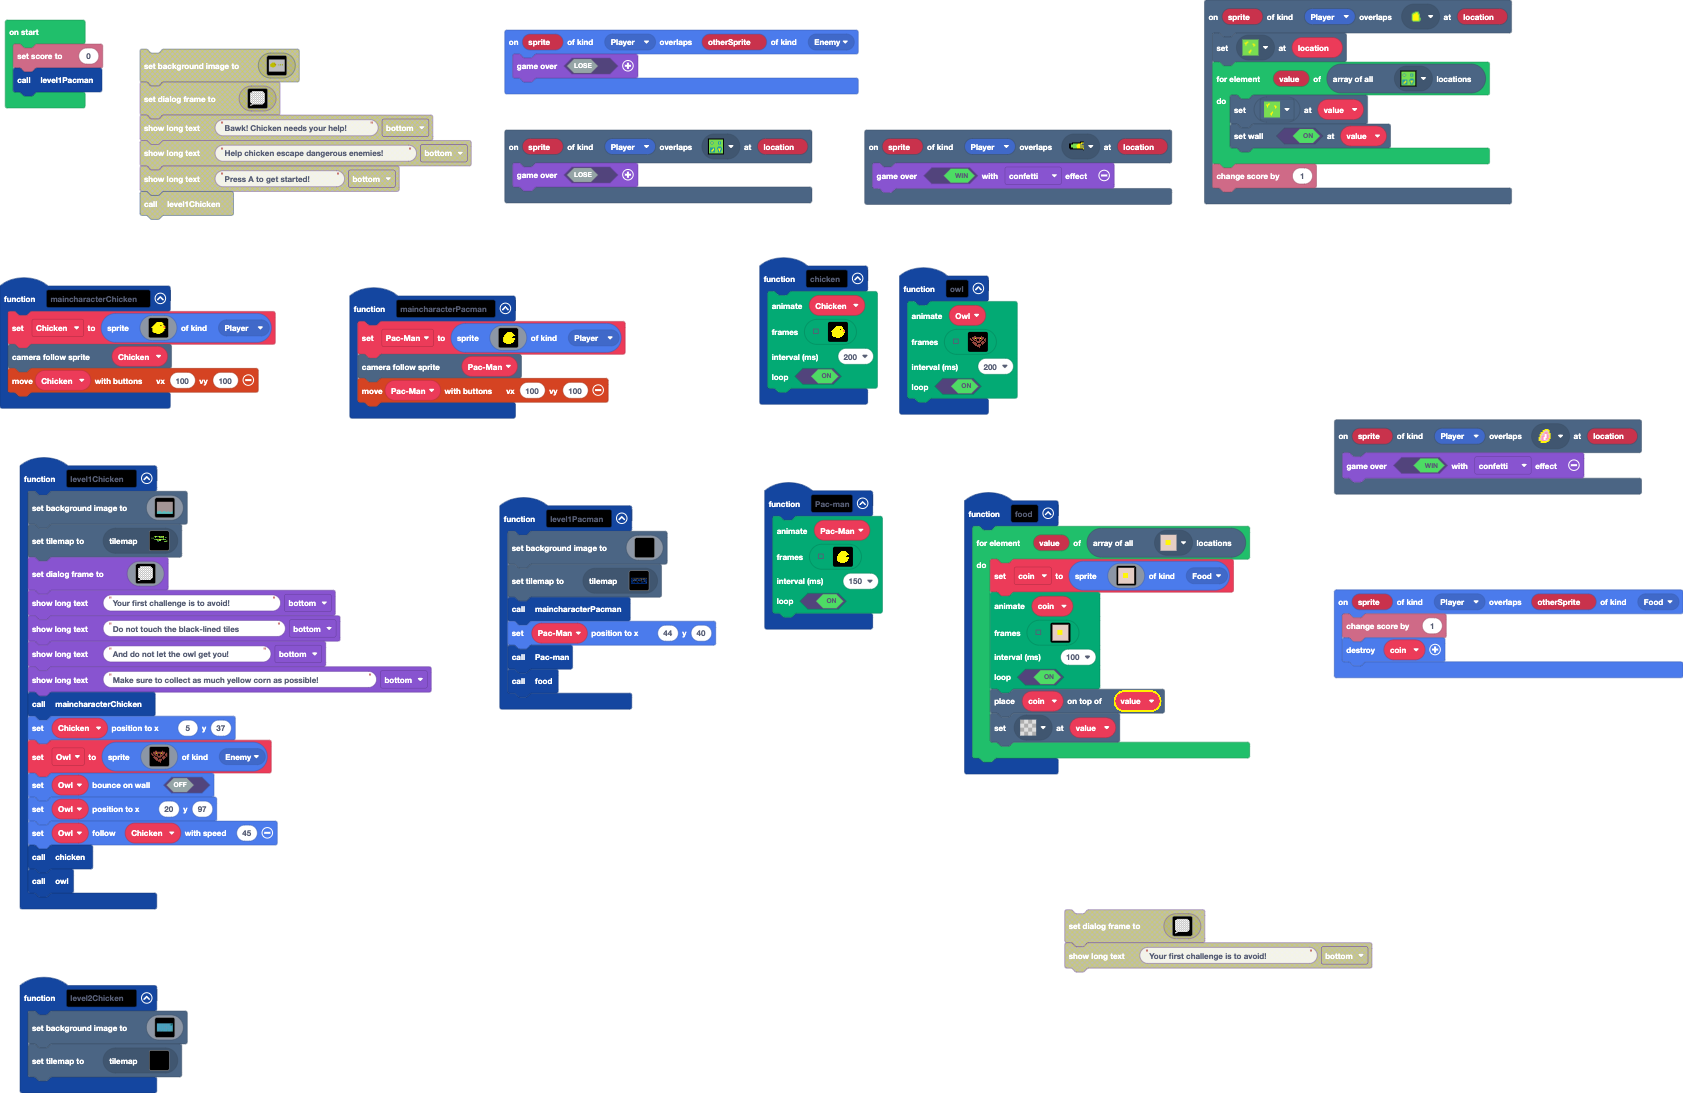
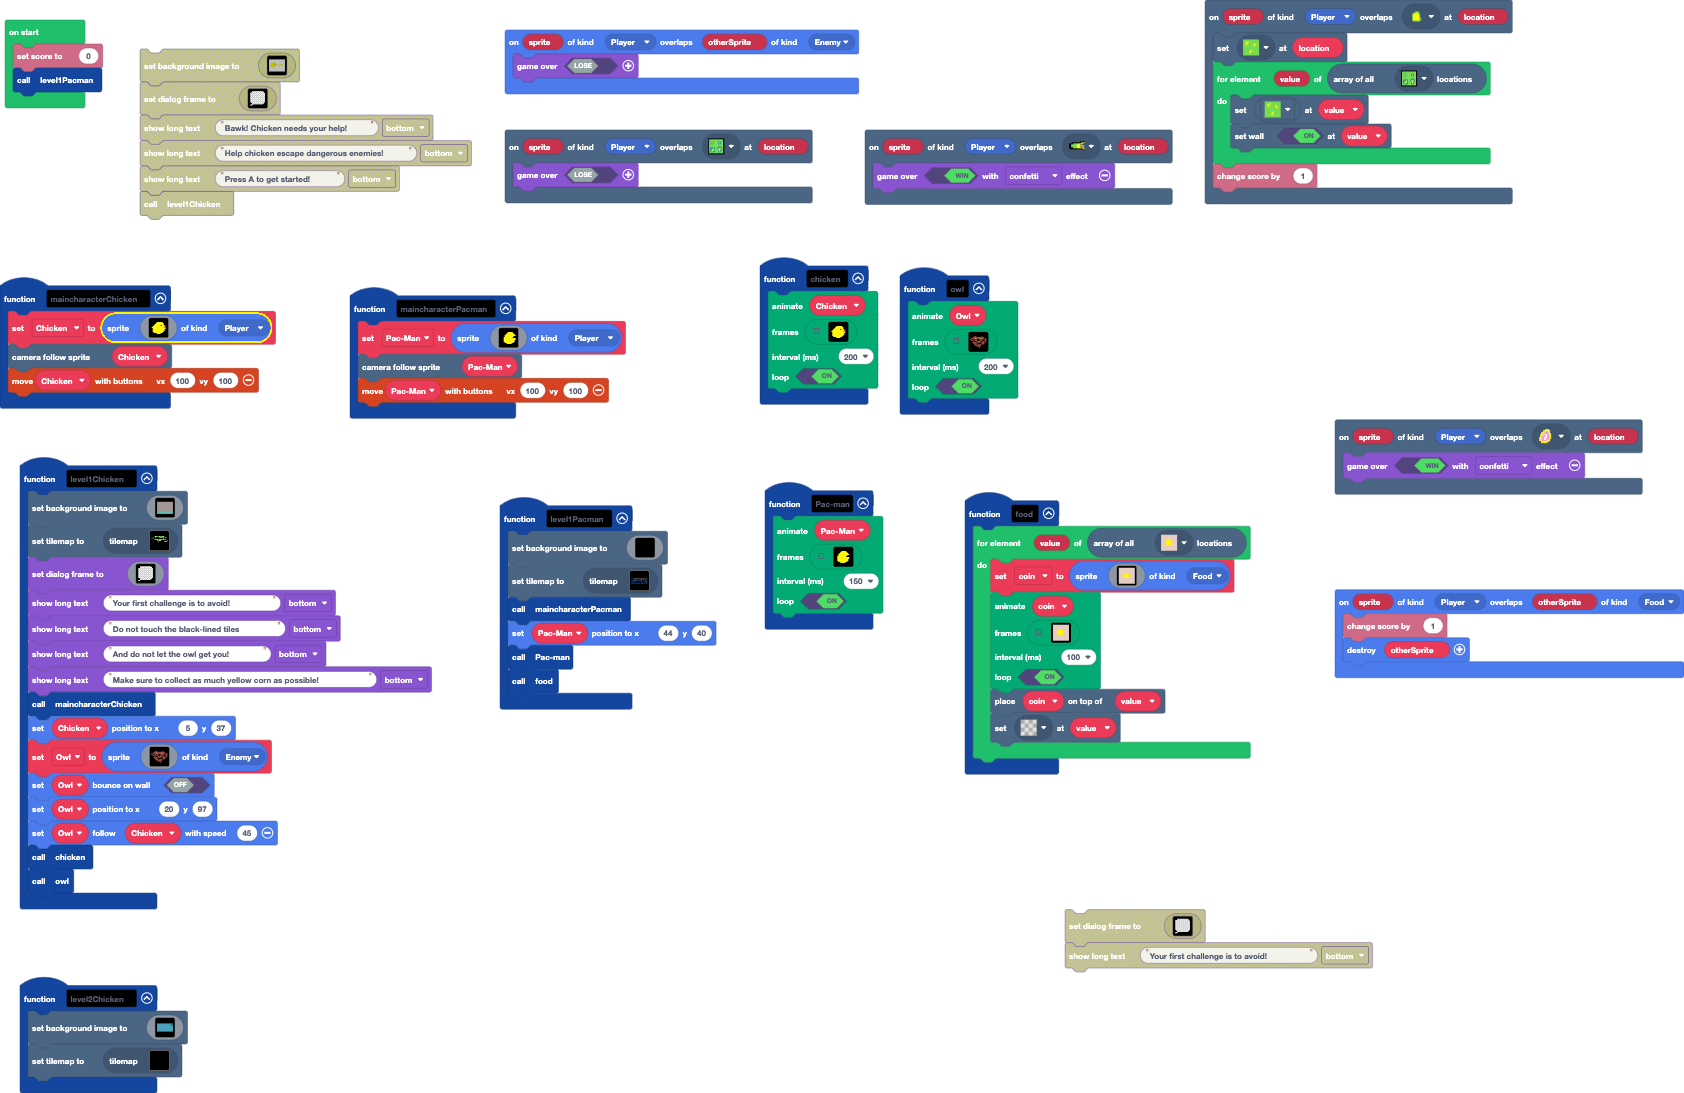
Update main.blocks, main.ts

diff --git a/main.ts b/main.ts
@@ -209,7 +209,7 @@ scene.onOverlapTile(SpriteKind.Player, assets.tile`goincoldlevel1`, function (sp
 })
 sprites.onOverlap(SpriteKind.Player, SpriteKind.Food, function (sprite, otherSprite) {
     info.changeScoreBy(1)
-    coin.destroy()
+    otherSprite.destroy()
 })
 function level1Chicken () {
     scene.setBackgroundImage(assets.image`level1background`)
